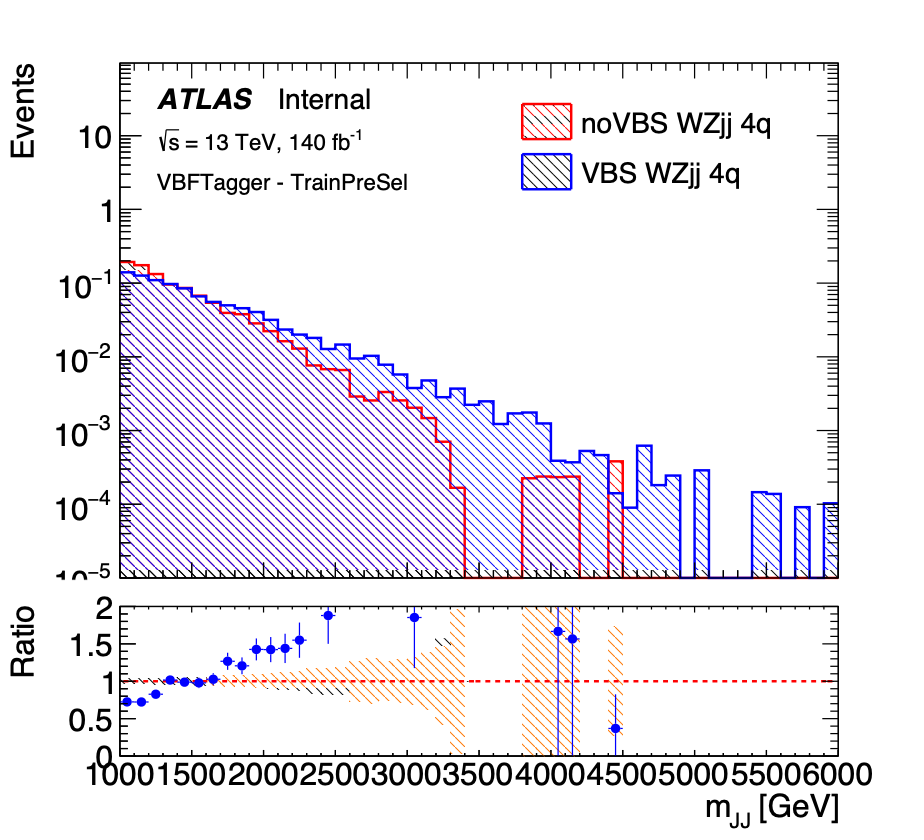
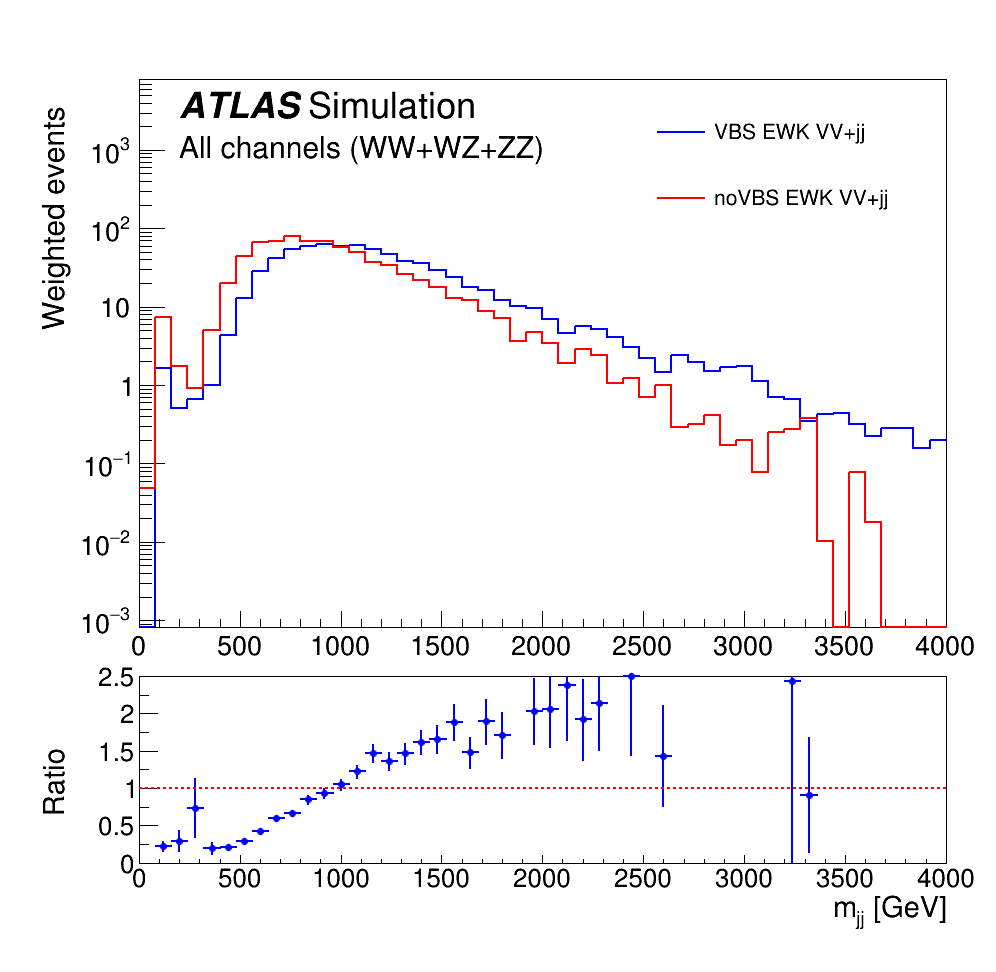
new updates

Changed region(s): [[0.0, 0.0619, 1.0, 0.9905], [0.697, 0.4024, 0.8485, 0.4952]]

diff --git a/chapters/analysismethods.tex b/chapters/analysismethods.tex
@@ -60,7 +60,7 @@ The four tagging jets constrain only the production side of the event, but the V
 \begin{figure}[htbp]
 \centering
 \includegraphics[width=0.6\textwidth]{figures/vbfrnn_sigjet_mjj.png}
-\caption{Normalised distribution of the dijet invariant mass of the two large-$R$ signal jets at the training pre-selection, for VBS (blue) and non-VBS EWK (red) $WZjj\to 4q$ events. The difference between the two distributions, quantified by the ratio panel, demonstrates the additional discriminating information that motivates including the signal jets in version~3 of the tagger.}
+\caption{Distribution of the dijet invariant mass of the two large-$R$ signal jets, for VBS (blue) and non-VBS EWK (red) $VV+jj$ events. The difference between the two distributions, shown by the ratio panel, demonstrates the additional discriminating information that motivates including the signal jets in version~3 of the tagger.}
 \label{fig:vbfrnn_sigjet}
 \end{figure}
 
@@ -90,15 +90,15 @@ Each LSTM layer has a hidden dimension of $25$, with a dropout and recurrent dro
     \textbf{Hyperparameter} & \textbf{Value} \\
     \hline
     Stacked LSTM layers          & 2 \\
-    Hidden dimension per layer   & 25 \\
+    Dimension per hidden layer   & 25 \\
     Dropout                      & 0.3 \\
     Recurrent dropout            & 0.3 \\
     Output activation            & sigmoid \\
-    Loss                         & weighted binary cross-entropy \\
+    Loss                         & binary cross-entropy \\
     Training epochs              & 200 \\
     Train\,/\,validation split   & 80\,/\,20 \\
     Input features per jet       & 4 ($p_T,\eta,\phi,E$) \\
-    Input jets                   & 4 (v1, v2) / 6 (v3) \\
+    Maximum input jets                   & Up to 4 (v1, v2) / Up to 6 (v3) \\
     \hline
   \end{tabular}
 \end{table}
@@ -125,7 +125,8 @@ As an alternative to the recurrent architecture, a transformer encoder was also 
     Dropout (embedding / block / classifier)    & 0.15 / 0.25 / 0.20 \\
     Output activation                           & sigmoid \\
     Training epochs                             & 200 \\
-    Input                                       & 6 jets $\times$ 4 features \\
+    Input features per jet                      & 4 ($p_T,\eta,\phi,E$) \\
+    Maximum input jets                          & Up to 6 \\
     \hline
   \end{tabular}
 \end{table}

diff --git a/chapters/results.tex b/chapters/results.tex
@@ -1,4 +1,4 @@
-\chapter{Performance of the VBF-RNN vector boson scattering tagger}
+\chapter{Performance of a VBS topology identifier}
 \label{chap:vbfrnn_results}
 
 This chapter evaluates the VBF-RNN tagger introduced in Section~\ref{sec:vbfrnn} on its ability to isolate the vector boson scattering topology from the inclusive electroweak $VVjj$ production. The three RNN versions of Table~\ref{tab:vbfrnn_versions} are first compared on a common figure of merit, after which the artefacts introduced by the jet multiplicity are discussed and the response of the tagger to the different aQGC operator families is studied; finally an alternative transformer-based architecture is evaluated. The performance reported here motivates the choice of the version~3 score as both a pre-selection requirement and an input feature to the aQGC discriminant of Chapter~\ref{chap:analysismethods}.
@@ -298,7 +298,7 @@ Given the absence of a measurable benefit, and the additional model and inferenc
 \end{table}
 \begin{figure}[htbp]
 \centering
-\includegraphics[width=0.7\textwidth]{figures/vbfrnn_roc_transformer.png}
+\includegraphics[width=0.5\textwidth]{figures/vbfrnn_roc_transformer.png}
 \caption{ROC curves on the combined $WW+WZ+ZZ$ EWK validation sample, repeating the three RNN versions of Figure~\ref{fig:vbfrnn_roc} with the transformer added: version~1 ($\mathrm{AUC}=0.629$), version~2 ($\mathrm{AUC}=0.760$), version~3 ($\mathrm{AUC}=0.801$) and the six-jet transformer ($\mathrm{AUC}=0.806$). The transformer curve lies on top of the version~3 curve, confirming that the marginal AUC gain is not significant at high VBS efficiency.}
 \label{fig:vbfrnn_roc_transformer}
 \end{figure}

diff --git a/chapters/mltheory.tex b/chapters/mltheory.tex
@@ -1,4 +1,4 @@
-\chapter{Machine learning}
+\chapter{Theory of machine learning}
 \label{chap:ml}
 
 Machine learning provides a framework for constructing functions that map inputs to outputs by optimising a parametric model against labelled examples.  In high-energy physics the canonical task is classification: given a set of measured quantities describing an event, assign it to one of $K$ classes.  The theoretical tools introduced in this chapter, multi-layer perceptrons, recurrent networks and transformers, address this task with increasing architectural complexity.

diff --git a/chapters/standardmodel.tex b/chapters/standardmodel.tex
@@ -1,4 +1,4 @@
-\chapter{The Standard Model and anomalous quartic gauge couplings}
+\chapter{The Standard Model and beyond}
 \label{chap:sm}
 
 \section{Standard Model}